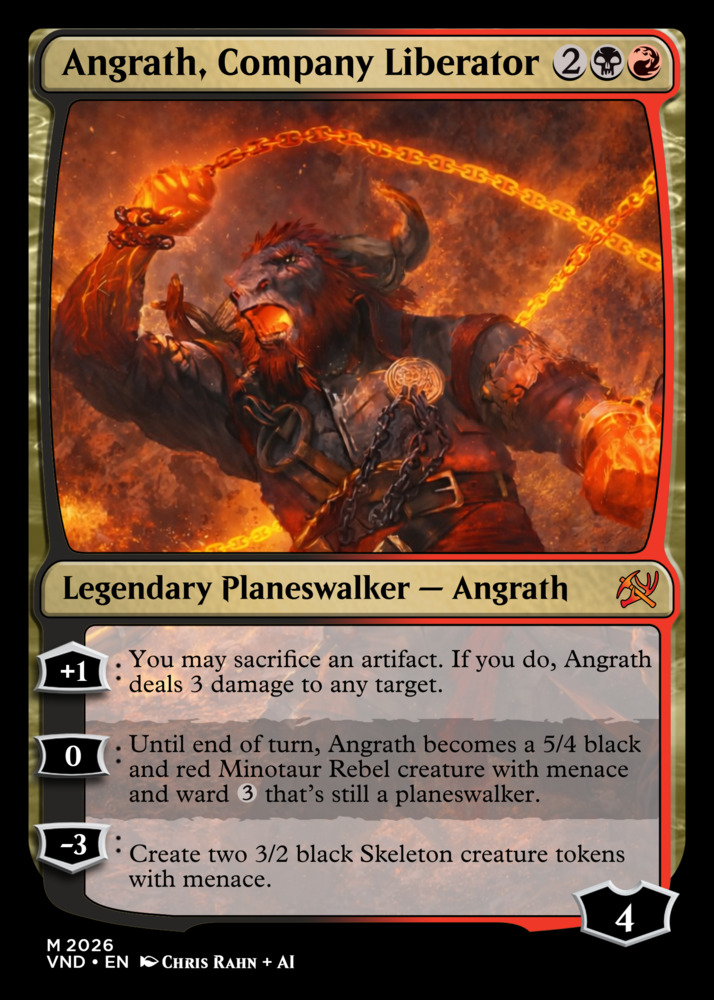
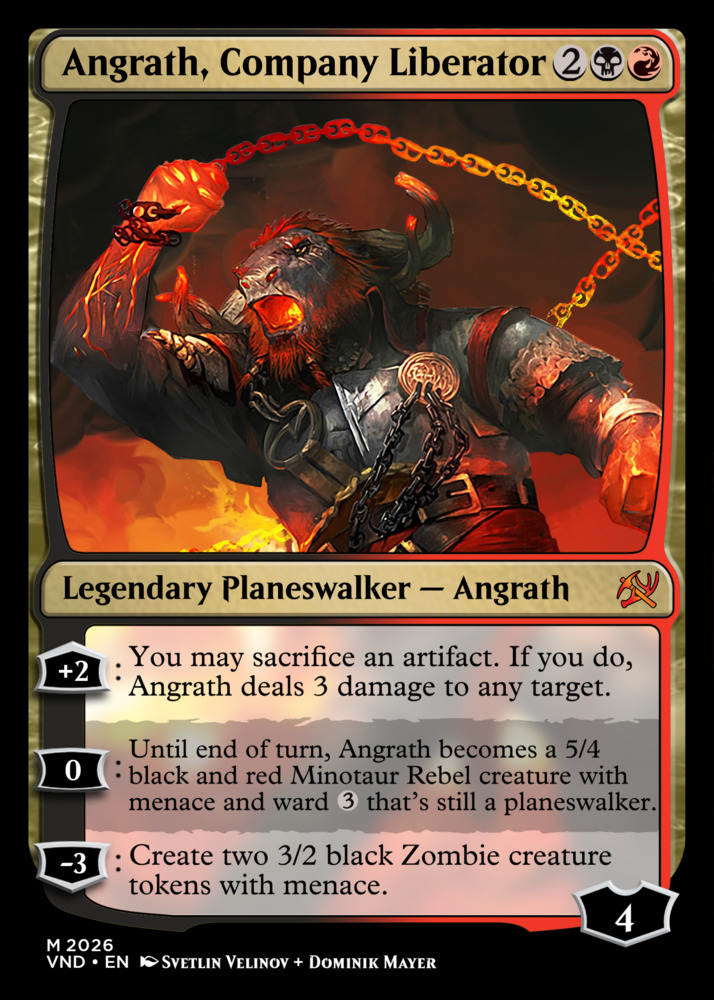
.

diff --git a/index.html b/index.html
@@ -983,7 +983,6 @@ Retrieved 2026-02-22, License - CC BY-SA 4.0
               <img alt="Shapeshifter" class="lazy card" data-src="tokens/Shapeshifter.jpg" />
               <img alt="Shine (a)" class="lazy card" data-src="tokens/Shine (a).jpg" />
               <img alt="Shine (b)" class="lazy card" data-src="tokens/Shine (b).jpg" />
-              <img alt="Skeleton" class="lazy card" data-src="tokens/Skeleton.jpg" />
               <img alt="Spirit (a)" class="lazy card" data-src="tokens/Spirit (a).jpg" />
               <img alt="Spirit (b)" class="lazy card" data-src="tokens/Spirit (b).jpg" />
               <img alt="Squirrel (a)" class="lazy card" data-src="tokens/Squirrel (a).jpg" />
@@ -991,6 +990,7 @@ Retrieved 2026-02-22, License - CC BY-SA 4.0
               <img alt="Treasure" class="lazy card" data-src="tokens/Treasure.jpg" />
               <img alt="Weasel" class="lazy card" data-src="tokens/Weasel.jpg" />
               <img alt="Yeti Horror" class="lazy card" data-src="tokens/Yeti Horror.jpg" />
+              <img alt="Zombie" class="lazy card" data-src="tokens/Zombie.jpg" />
             </div>
           </div>
         </section>
